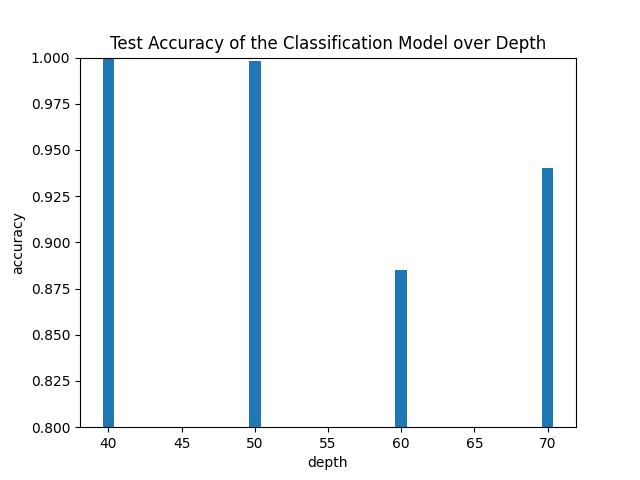
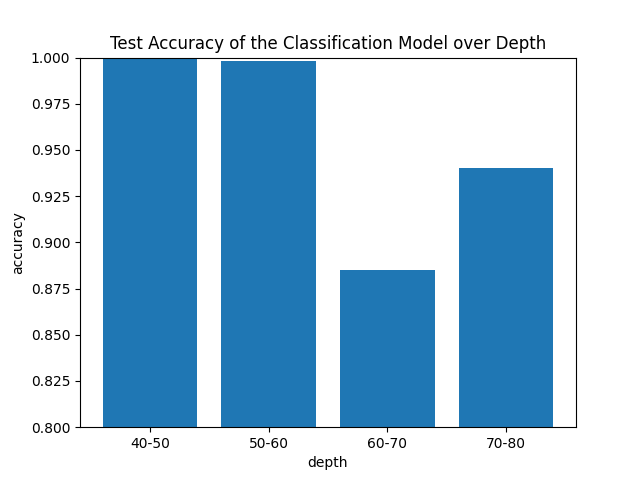
finished running experiments and generating plots

diff --git a/train.py b/train.py
@@ -217,7 +217,7 @@ def plot_test(is_regression=True):
         with open('test_results/test_regression.pickle','rb') as fp:
             losses = pkl.load(fp)
             losses = np.array(losses)
-            plt.bar(losses[:,0],losses[:,1])
+            plt.bar(['40-50','50-60','60-70','70-80'],losses[:,1])
             plt.title('Test MSE of the Regression Model over Depth')
             plt.xlabel('depth')
             plt.ylabel('MSE')
@@ -226,7 +226,7 @@ def plot_test(is_regression=True):
         with open('test_results/test_classification.pickle','rb') as fp:
             losses = pkl.load(fp)
             losses = np.array(losses)
-            plt.bar(losses[:,0],losses[:,1])
+            plt.bar(['40-50','50-60','60-70','70-80'],losses[:,1])
             plt.ylim(0.8,1.0)
             plt.title('Test Accuracy of the Classification Model over Depth')
             plt.xlabel('depth')

diff --git a/generate_record.py b/generate_record.py
@@ -161,7 +161,7 @@ def print_stats(statistics:dict, plot=False):
         plt.ylabel('Count')
         plt.grid()
         # plt.show()
-        plt.savefig('distribution.png')
+        plt.savefig('plots/distribution.png')
 
 
 def test_running_time(num_game:int = 20, num_playout:int = 60):
@@ -321,8 +321,8 @@ def make_dataset(is_regression = True):
 
 
 def main():
-    make_dataset(False)
-    # print_stats(stats(pns_tt.TT),True)
+    # make_dataset(False)
+    print_stats(stats(pns_tt.TT),True)
     # for num in range(62, 61, -1):
     #     print('Rand play:', num)
     #     # take the first 2000 games as tests

diff --git a/test_neural_mcts.py b/test_neural_mcts.py
@@ -69,8 +69,8 @@ def print_result(thresholds, is_regression=True):
 
 
 def main():
-    test_performance(thresholds=(45,55,65),is_regression=True,num_game=100)
-    print_result((45,55,65),is_regression=True)
+    test_performance(thresholds=(45,55,65),is_regression=False,num_game=100)
+    print_result((45,55,65),is_regression=False)
     # p1_win = 0
     # p2_win = 0
     # draw = 0
